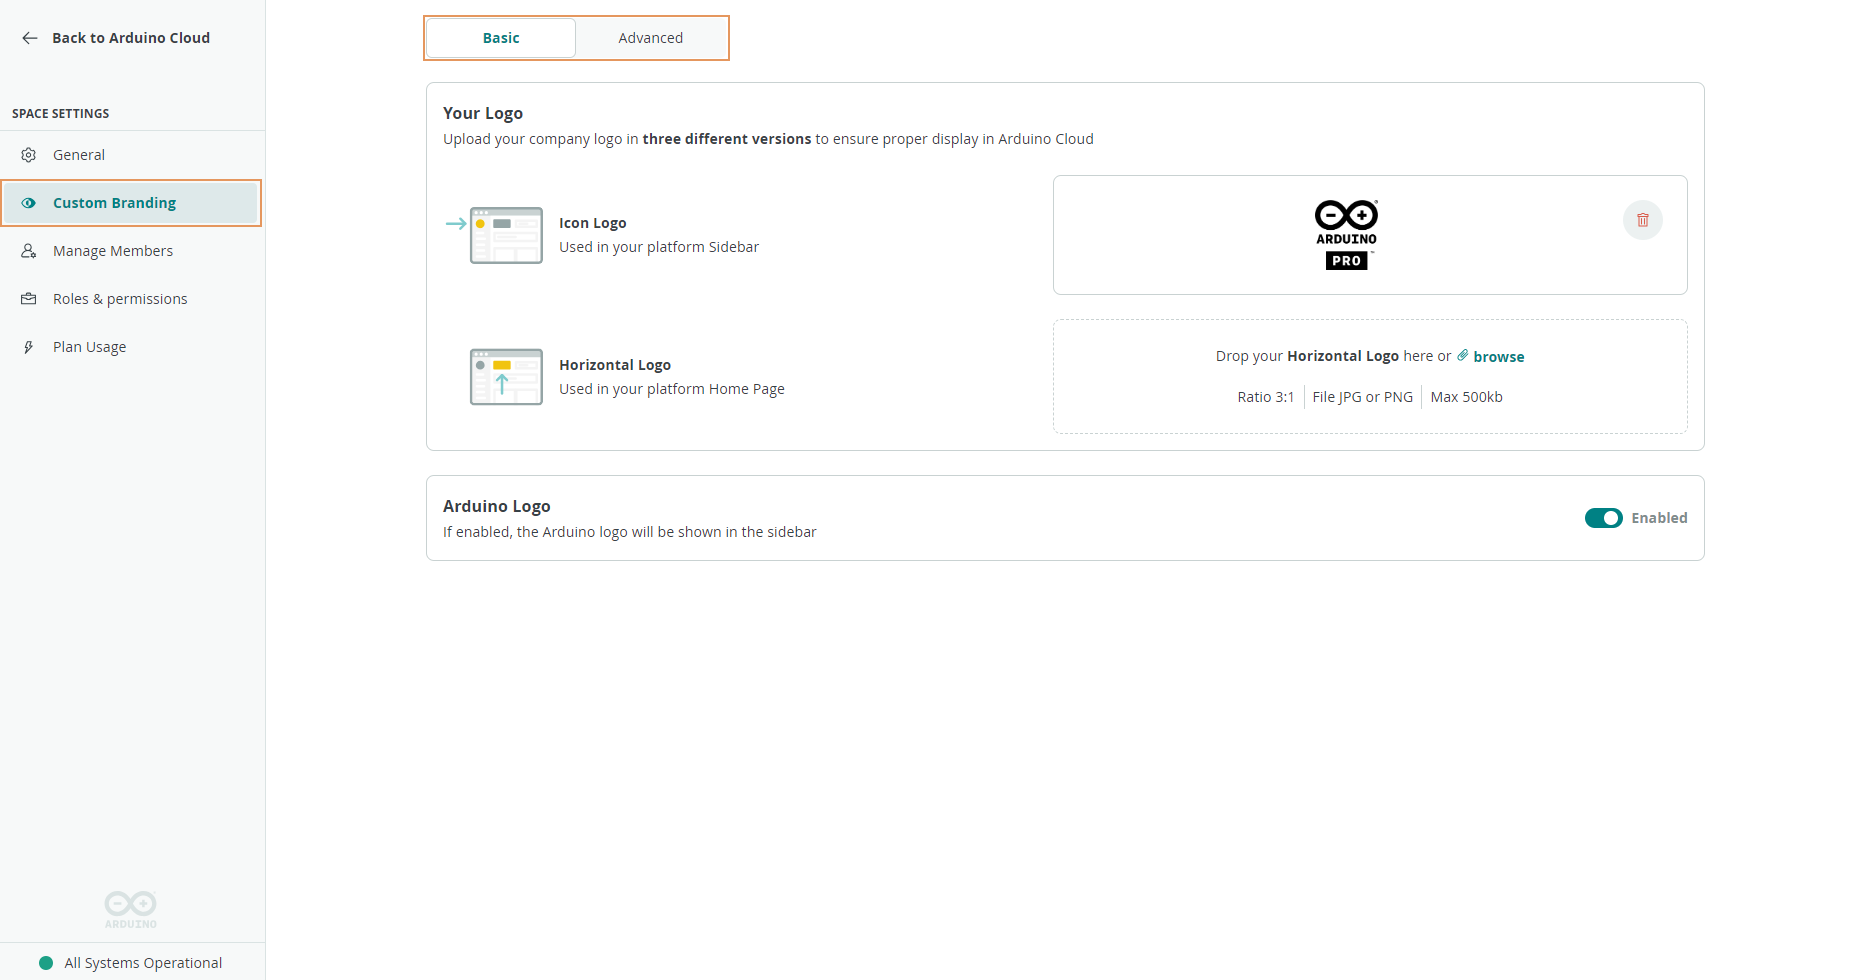
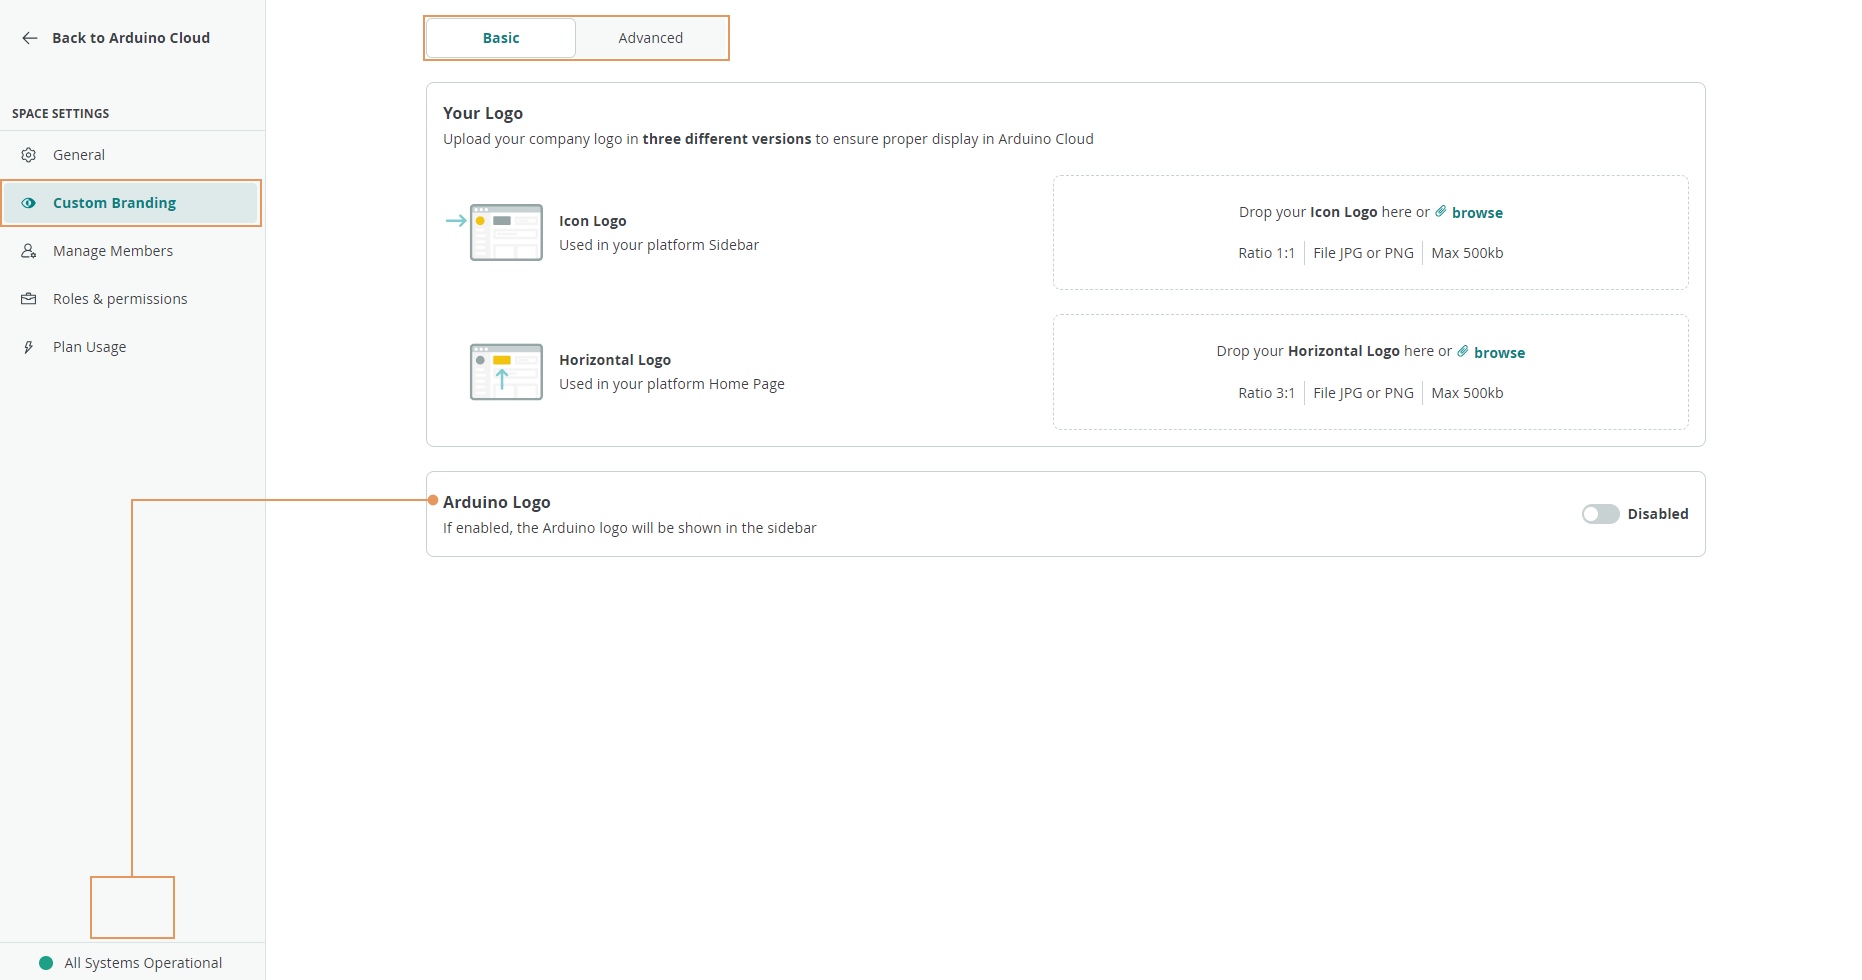
Custom branding white labelling content udpate

diff --git a/content/arduino-cloud/09.business/09.arduino-cloud-for-business/content.md b/content/arduino-cloud/09.business/09.arduino-cloud-for-business/content.md
@@ -112,6 +112,58 @@ There, you will find multiple options to customize your Shared Space:
 
 The Arduino Cloud for Business plan allows you to create and manage one Shared Space and one Private Space. If you need additional Spaces, you have to purchase a new Arduino Cloud plan. Check the available plans [here](https://cloud.arduino.cc/plans).
 
+### Custom Branding
+
+The Arduino Cloud for Business allows the configuration of custom branding for available spaces. This feature provides the flexibility to customize the appearance of the cloud environment.
+
+To access the **Custom Branding** option, navigate to the **Space Settings** on the left sidebar of the Cloud space.
+
+![Custom Branding - Space Settings](assets/custom-branding-1.png "Space Settings")
+
+Select the **Custom Branding** page from the left sidebar inside the **Space Settings**. This page offers **Basic** and **Advanced** options for configuring custom branding and white labelling.
+
+Under the **Basic** option, you can customize the logo and toggle the visibility of the Arduino logo on the sidebar.
+
+![Custom Branding - Basic Options](assets/custom-branding-2.png)
+
+  - **Your Logo:** You can upload your custom logo in `JPEG` or `PNG` format, with a maximum size of 500 KB.
+  
+    The custom logo will be displayed on the Arduino Cloud sidebar and home page. The **Icon Logo** is used on platform's sidebar. The **Horizontal Logo** is used on your space's Home Page. It is recommended to use a ratio of *1:1* for the **Icon Logo** and a ratio of *3:1* for the **Horizontal Logo**.
+
+  - **Arduino Logo:** You can turn the visibility of the Arduino logo on or off on the sidebar.
+
+If you have applied custom branding logo and toggled the Arduino logo, your **Basic** configuration page will resemble the following image:
+
+![Custom Branding - Complete Basic Options](assets/custom-branding-2-1.png)
+
+Once the configuration is set, your **Home** page will reflect your custom branding:
+
+![Custom Branding - Home Page with Custom Logo](assets/custom-branding-2-2.png)
+
+For customizations related to *white labeling*, navigate to the **Advanced** tab within the **Custom Branding** page.
+
+![Custom Branding - Advanced Options](assets/custom-branding-3.png "Advanced Options")
+
+In this section, you will find features that allow for *white labeling*:
+
+  - **Custom URL:** You can set a custom URL and a name for your site (usually the name of the company) that will be shown as the page title. Please avoid using special characters or spaces for the custom subdomain. Based on the provided information, the submitted custom subdomain will be validated, and a quick preview will be generated.
+
+![Custom Branding - White Labelling Custom URL](assets/custom-branding-3-1.png)
+
+  - **Social Sign-in:** By enabling *Social Sign-In*, you can provide faster authentication to your app. The available options for *Social Sign-In* are Google, GitHub, and Apple. To enable this option, the **Custom URL** information must be completed. Otherwise, the feature will not be available.
+
+![Custom Branding - White Labelling Social Sign-in](assets/custom-branding-3-2.png)
+
+  The **Social Sign-in** options can be disabled later by toggling off. Please be cautious when doing so, as it will remove the user's associated account and data corresponding to the authentication method.
+
+![Custom Branding - White Labelling Disabling Social Sign-in](assets/custom-branding-3-4.png)
+
+  - **Legal:** You can add URLs for your Terms and Conditions and Privacy Policy. These links will be shown to new users during sign-up, ensuring compliance and transparency. These URLs must be complete, including `https://www...`.
+
+![Custom Branding - White Labelling Legal](assets/custom-branding-3-3.png)
+
+With this, you will have a complete custom branding configuration with white labeling for the corresponding Cloud space.
+
 ### Invite Members Into Your Space
 
 To add more members to your Shared Space, use the sidebar to navigate to the **Manage Members** item under **Space Settings**.
@@ -178,24 +230,6 @@ The following page will appear to allow you to send an email invitation to all t
 Type the email addresses of all your team and define which role they will cover in your Space based on the available options. Click on **INVITE**.
 
 The users you added will get the invitation by email with a link to join your Shared Space. You are now ready to start working all together on your Arduino Cloud projects.
-
-### Custom Branding
-
-WIP
-
-The Arduino Cloud for Business allows to configure custom branding for the desired space. 
-
-To access the **Custom Branding** option, navigate by selecting the **Space Settings** found on the left sidebar of the main Cloud space: 
-
-![Custom Branding - Space Settings](assets/custom-branding-1.png "Space Settings")
-
-Inside the **Space Settings**, navigate to **Custom Branding** page using the left sidebar. The page will show **Basic** and **Advanced** options to configure custom branding.
-
-Within the **Basic** option, the logo can be customized and the Arduino logo visibility on the sidebar can be toggled.
-
-![Custom Branding - Basic Options](assets/custom-branding-2.png "Basic Options")
-
-![Custom Branding - Advanced Options](assets/custom-branding-3.png "Advanced Options")
 
 ## Device Management
 
